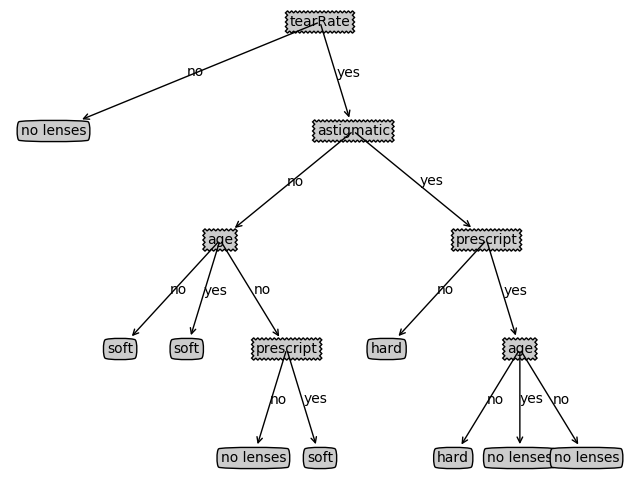
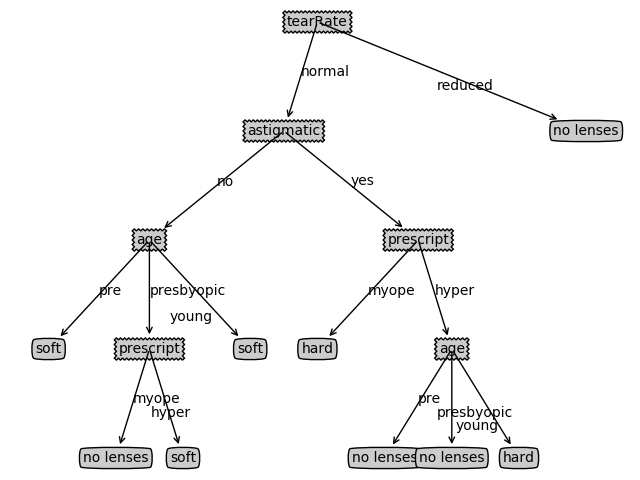
refactor: update result

diff --git a/data_process.py b/data_process.py
@@ -1,26 +1,26 @@
 # map string to number
-age = {
-    'young': 0,
-    'pre': 1,
-    'presbyopic': 2
-}
-prescript = {
-    'myope': 0,
-    'hyper': 1
-}
-astigmatic = {
-    'no': 0,
-    'yes': 1
-}
-tearRate = {
-    'reduced': 0,
-    'normal': 1
-}
-glass_type = {
-    'hard': 0,
-    'soft': 1,
-    'no lenses': 2
-}
+# age = {
+#     'young': 0,
+#     'pre': 1,
+#     'presbyopic': 2
+# }
+# prescript = {
+#     'myope': 0,
+#     'hyper': 1
+# }
+# astigmatic = {
+#     'no': 0,
+#     'yes': 1
+# }
+# tearRate = {
+#     'reduced': 0,
+#     'normal': 1
+# }
+# glass_type = {
+#     'hard': 0,
+#     'soft': 1,
+#     'no lenses': 2
+# }
 
 # export variables
 dataset = []
@@ -32,10 +32,10 @@ src = file.read().splitlines()
 for line in src:
     split = line.split('\t')
     dataset.append([
-        age[split[0]],
-        prescript[split[1]],
-        astigmatic[split[2]],
-        tearRate[split[3]],
+        split[0],
+        split[1],
+        split[2],
+        split[3],
         split[4]  # glass type
     ])
 file.close()

diff --git a/tree_plotter.py b/tree_plotter.py
@@ -52,13 +52,13 @@ def plot_tree(my_tree, parent_pt, node_txt):
     plot_node(first_str, cntr_pt, parent_pt, decision_node)
     second_dict = my_tree[first_str]
     plot_tree.y_off = plot_tree.y_off - 1.0 / plot_tree.total_d
-    for key in second_dict.keys():
+    for i, key in enumerate(second_dict.keys()):
         if type(second_dict[key]).__name__ == 'dict':
-            plot_tree(second_dict[key], cntr_pt, 'yes' if key == 1 else 'no')
+            plot_tree(second_dict[key], cntr_pt, str(key))
         else:
             plot_tree.x_off = plot_tree.x_off + 1.0 / plot_tree.total_w
             plot_node(second_dict[key], (plot_tree.x_off, plot_tree.y_off), cntr_pt, leaf_node)
-            plot_mid_text((plot_tree.x_off, plot_tree.y_off), cntr_pt, 'yes' if key == 1 else 'no')
+            plot_mid_text((plot_tree.x_off - 0.05 * i, plot_tree.y_off - 0.06 * i), cntr_pt, str(key))
     plot_tree.y_off = plot_tree.y_off + 1.0 / plot_tree.total_d
 
 

diff --git a/decision_tree.py b/decision_tree.py
@@ -37,7 +37,7 @@ def choose_best_feature_to_split(dataset: List[List[int]]) -> int:
 
 
 def create_tree(dataset: List[List[int]], labels: List[str]):
-    class_list = [example[-1] for example in dataset]
+    class_list = [feats[-1] for feats in dataset]
     # 类别完全相同，不再划分
     if class_list.count(class_list[0]) == len(class_list):
         return class_list[0]
